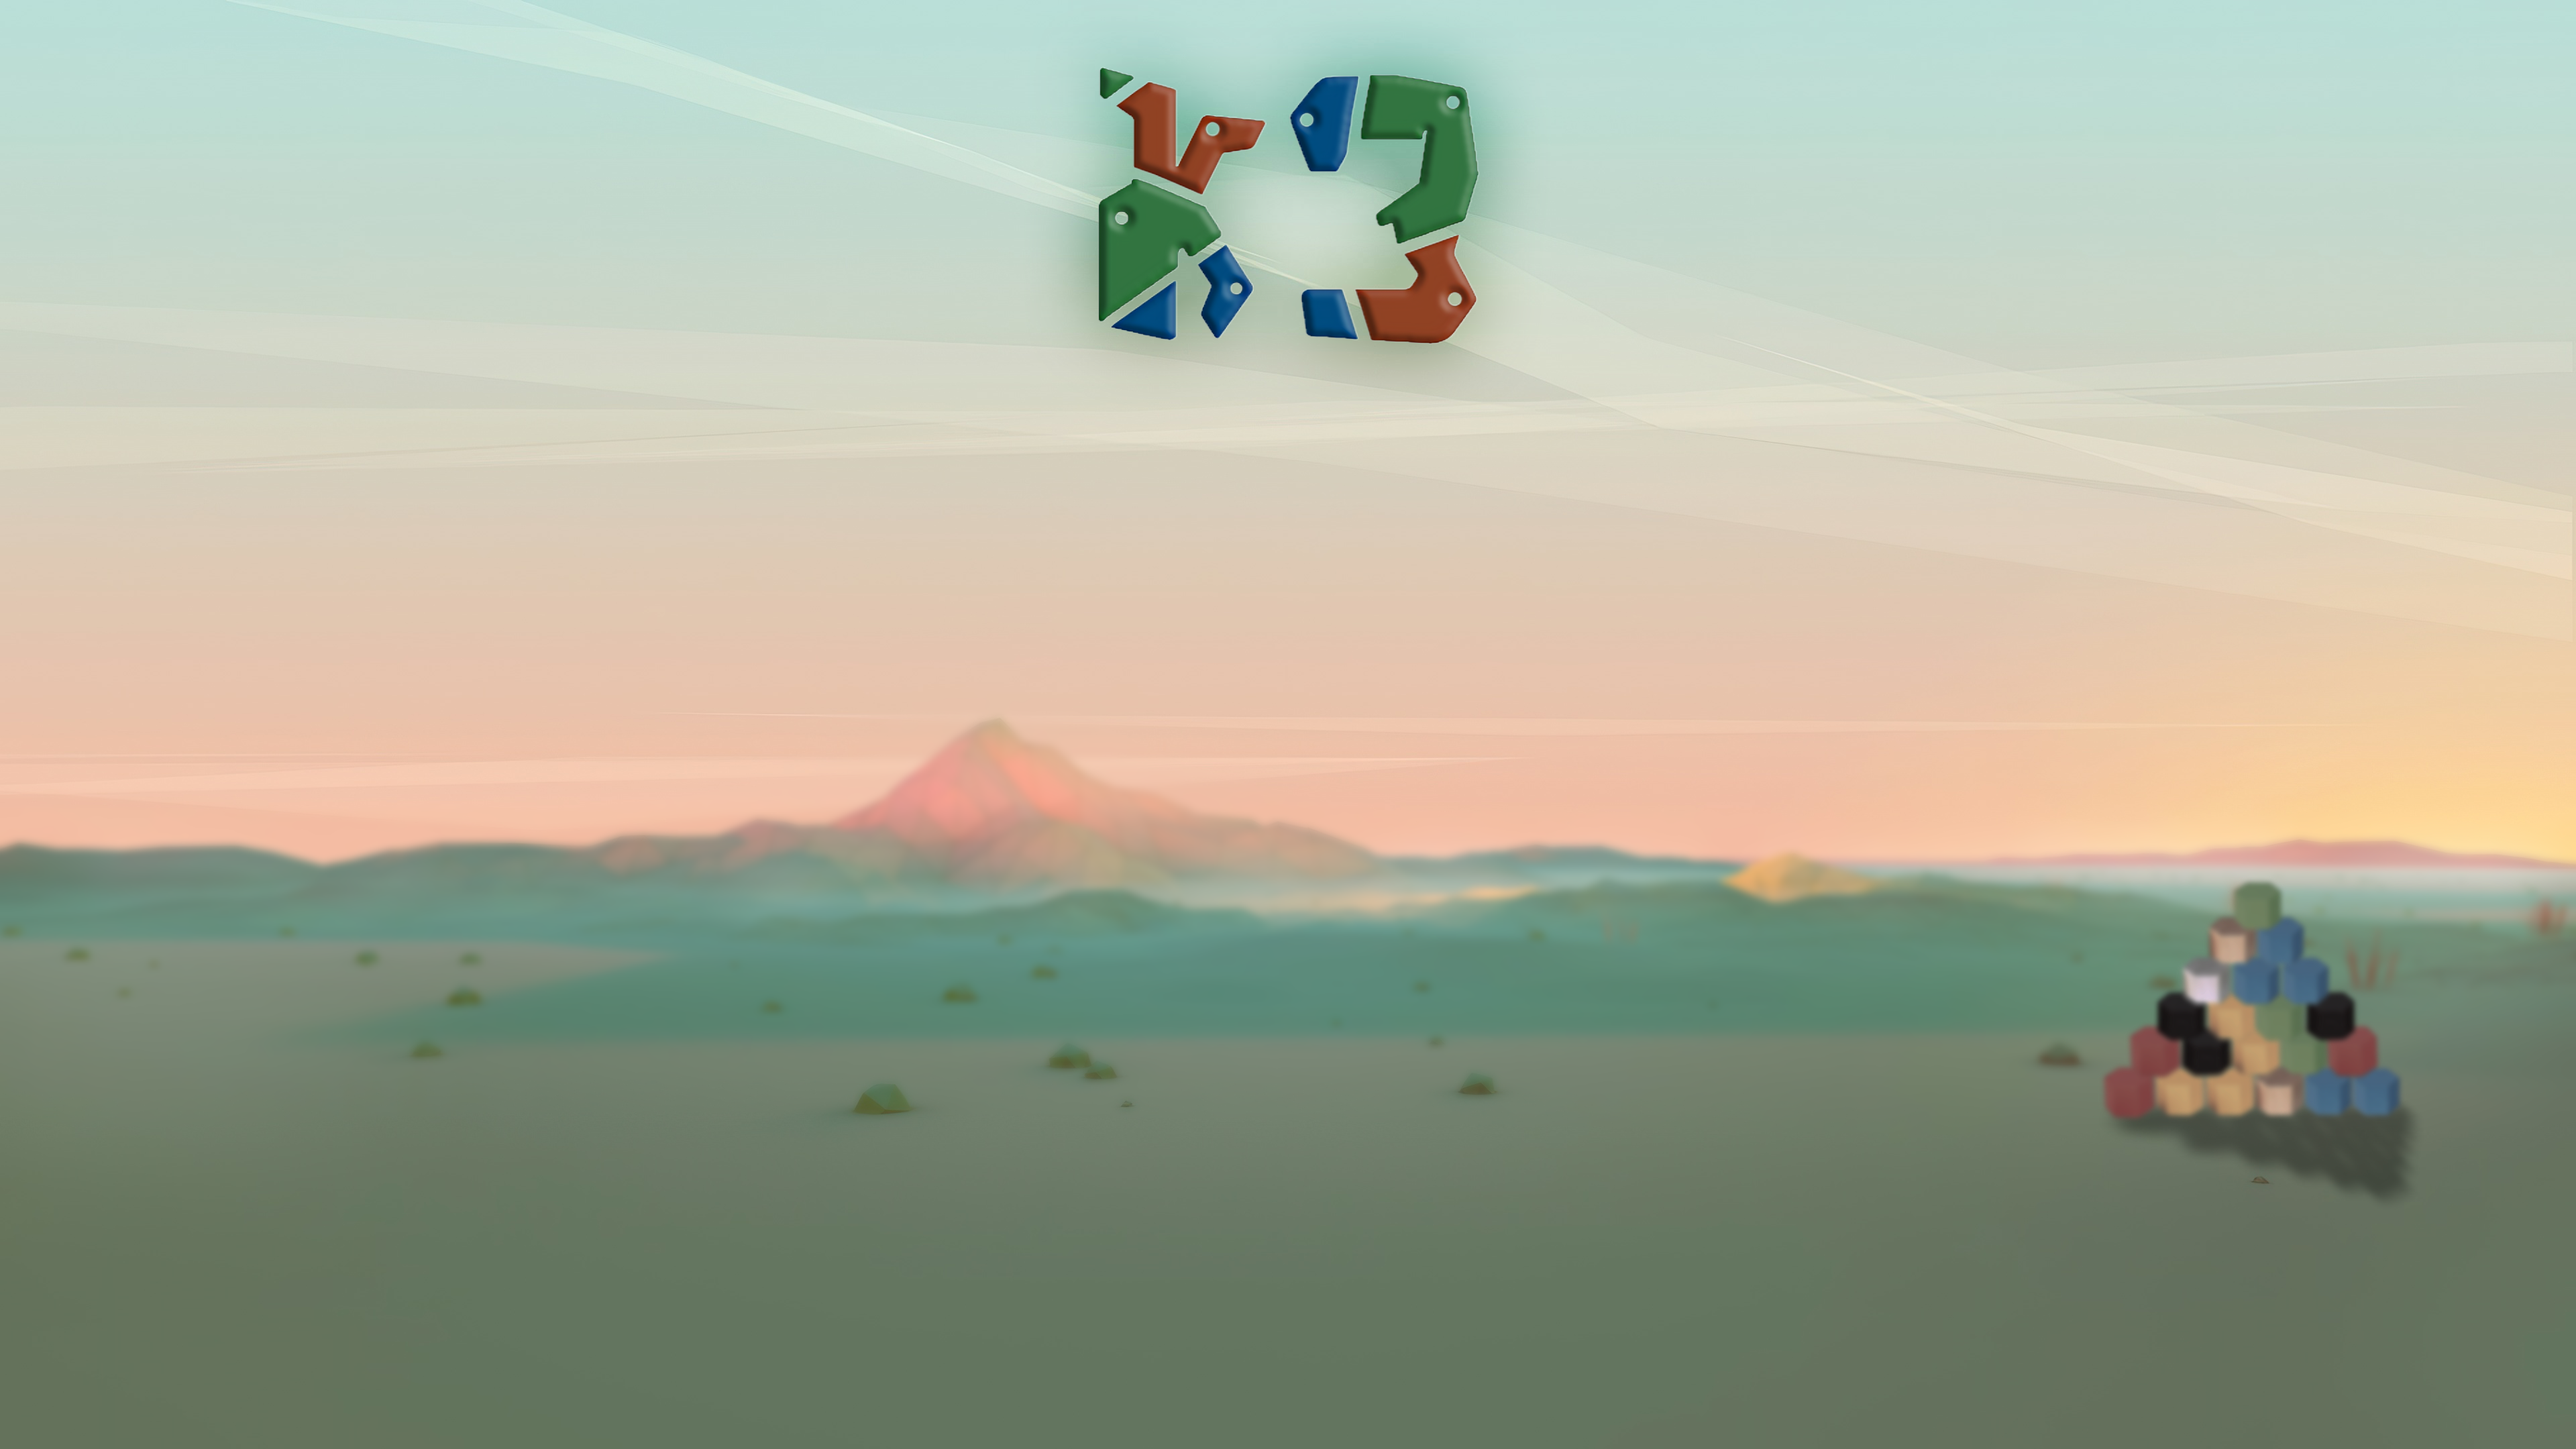
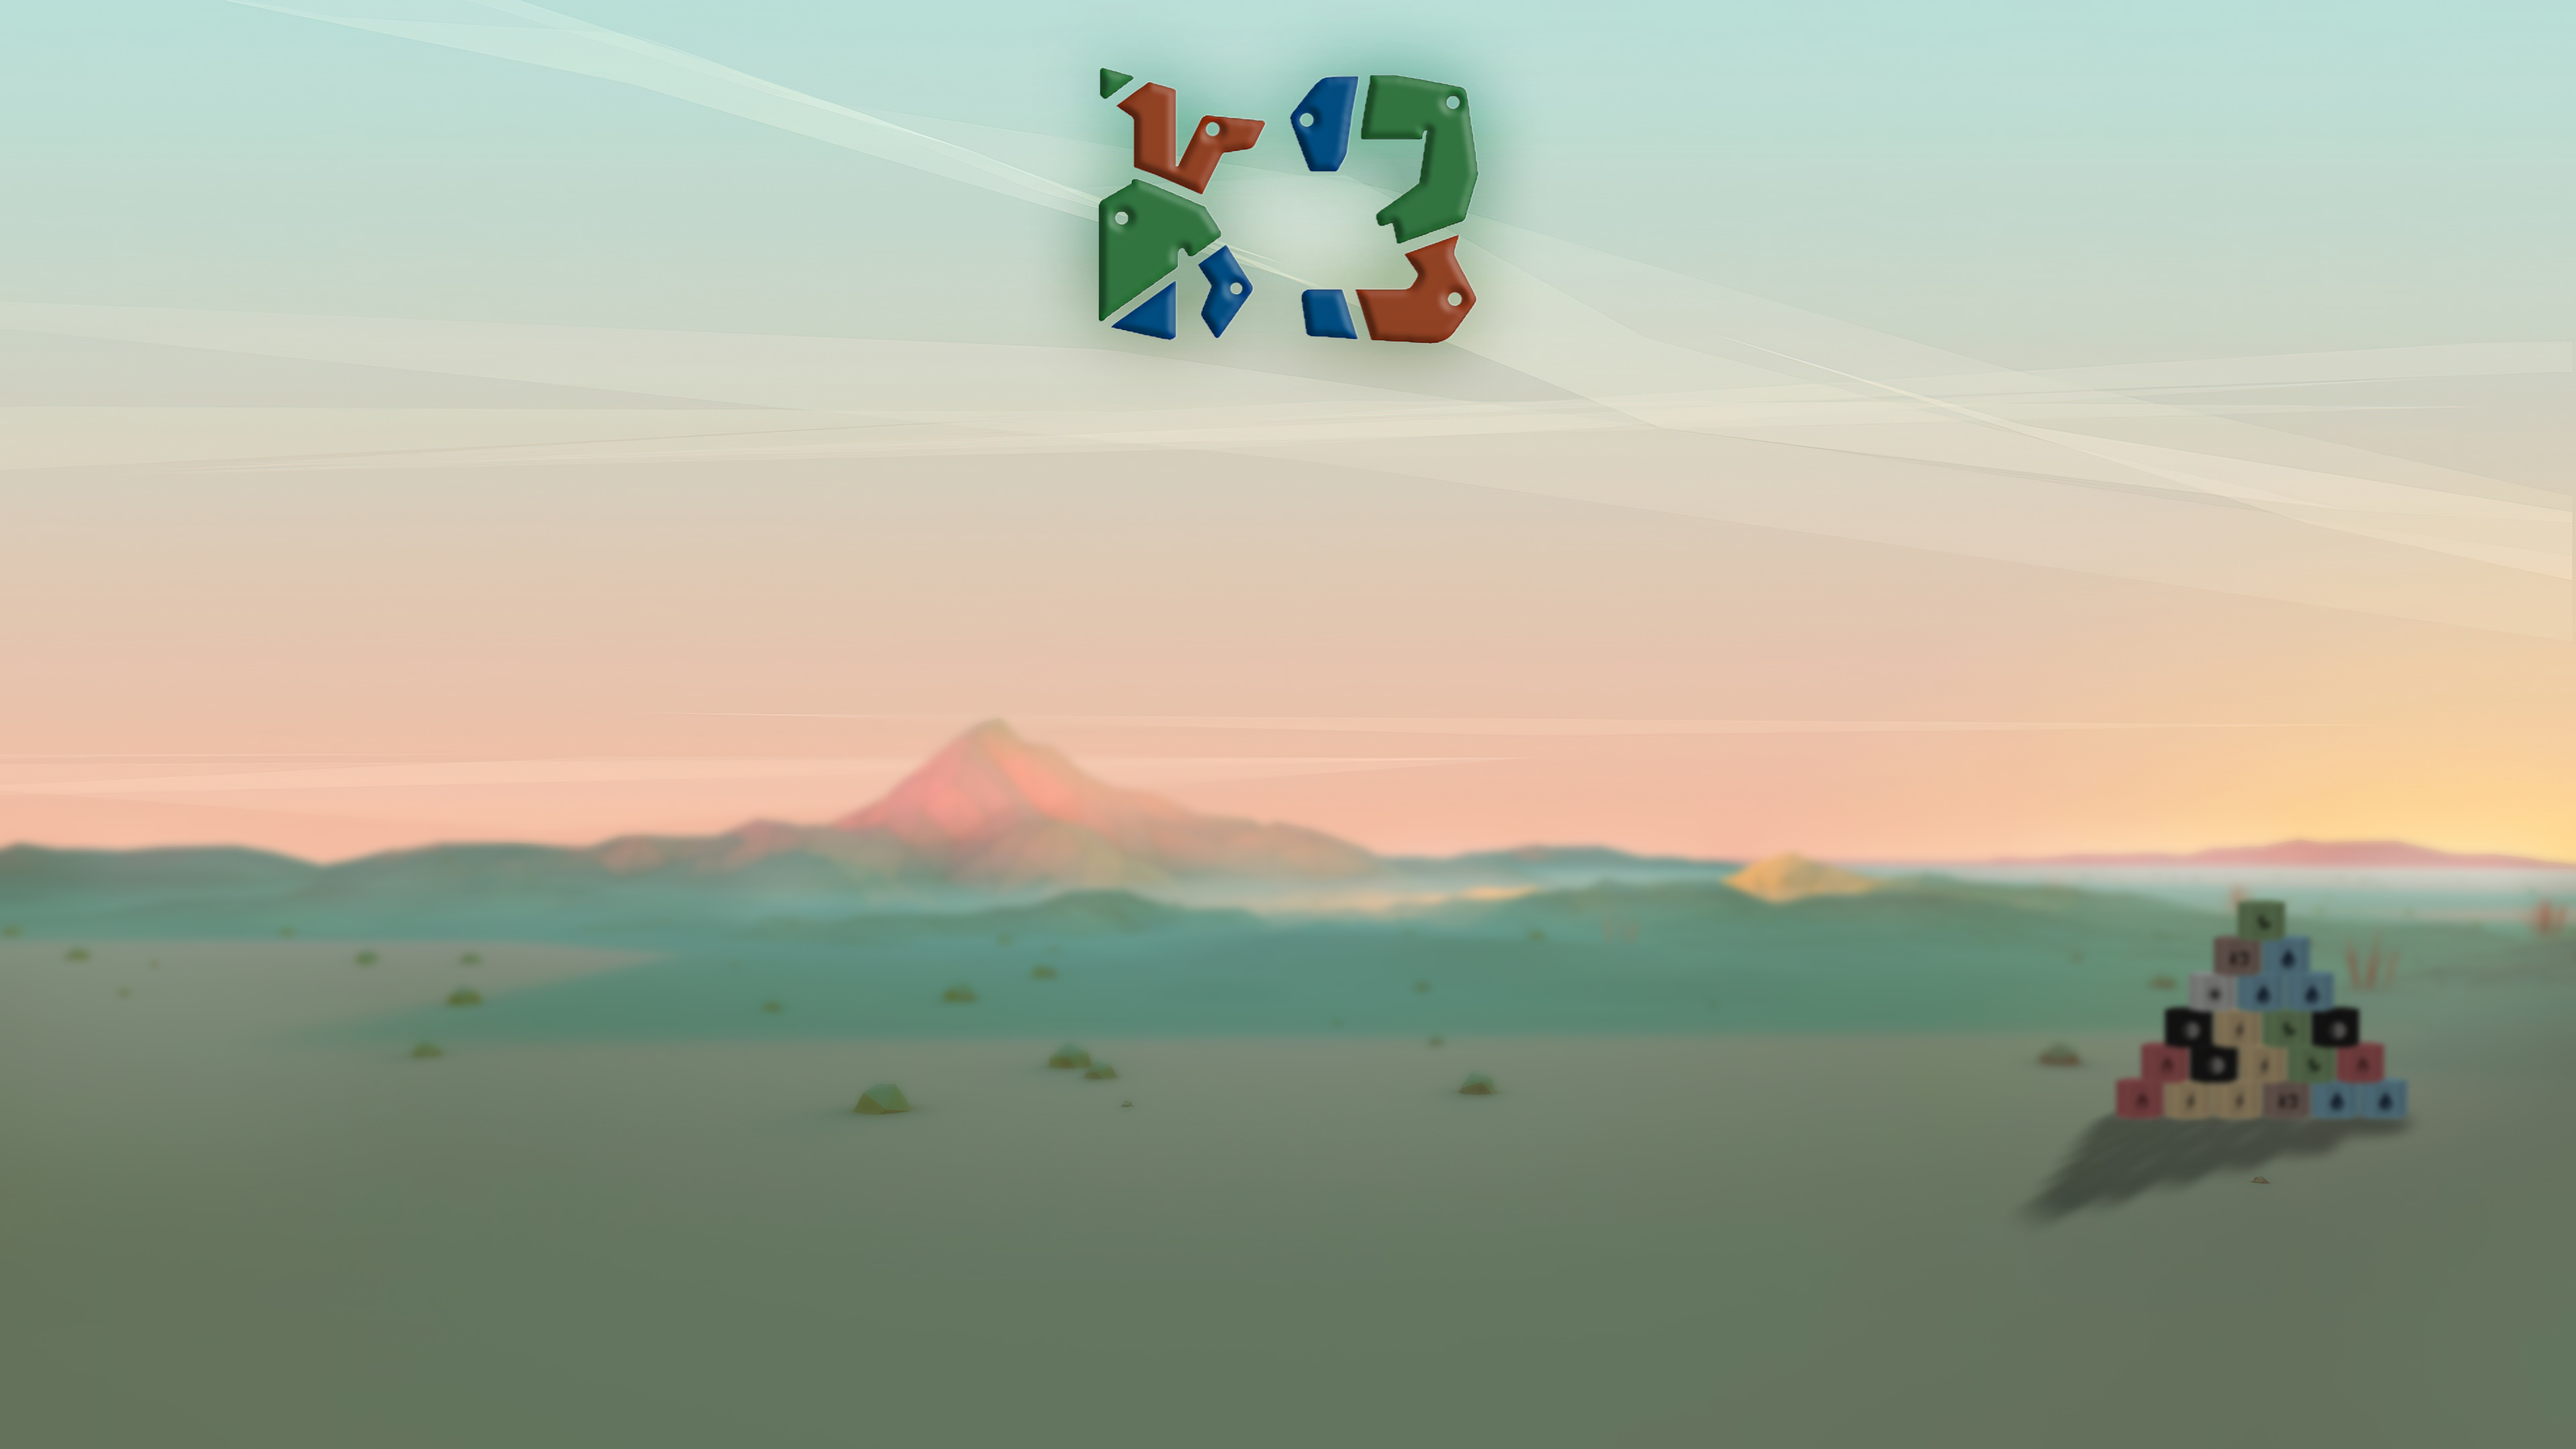
animation + background

Changed region(s): [[0.7812, 0.5894, 0.9375, 0.8375]]

diff --git a/src/Vue/Menu/StartJeu.java b/src/Vue/Menu/StartJeu.java
@@ -3,22 +3,20 @@ package Vue.Menu;
 import java.awt.Color;
 import java.awt.Dimension;
 import java.awt.Graphics;
-import java.awt.Image;
 import java.awt.Toolkit;
 import java.awt.event.ActionEvent;
 import java.awt.event.ActionListener;
+import java.util.Random;
 
-import javax.swing.Icon;
-import javax.swing.ImageIcon;
-import javax.swing.JButton;
 import javax.swing.JFrame;
 import javax.swing.JPanel;
+import javax.swing.Timer;
 
-import Controleur.Jeu;
+import Modeles.Aleatoire;
 import Modeles.SoundPlayer;
 import Vue.TexturePack.LoadTexture;
 
-public class StartJeu extends JPanel{
+public class StartJeu extends JPanel implements ActionListener{
 
 	public JFrame window;
 	public Dimension tailleEcran, tailleFenetre;
@@ -26,13 +24,18 @@ public class StartJeu extends JPanel{
     public int screenHeight, screenWidth, frameHeight, frameWidth;
     public int posX_bouton, posY_nouvellePartie, hauteur_bouton, largeur_bouton;
     public int posY_options, posY_quitter, posY_charger, posY_tuto;
+    public int posX_Ile, posY_Ile, posMaxX_Ile, posMaxY_Ile, posMinX_Ile, posMinY_Ile;
+    public int animX, animY;
     public boolean enfonce_nouvellePartie=false;
     public boolean enfonce_options=false;
     public boolean enfonce_tuto=false;
     public boolean enfonce_quitter=false;
     public boolean enfonce_charger=false;
+    public boolean animation1=false;
     public Chargement chargement;
     private SoundPlayer simpleSoundPlayerSon;
+    Timer animationTimer;
+    Aleatoire rand = new Aleatoire();
 	
 	public StartJeu(JFrame w, Chargement ch, LoadTexture texture) {
 		this.texture = texture;
@@ -50,6 +53,10 @@ public class StartJeu extends JPanel{
 	    window.setExtendedState(JFrame.MAXIMIZED_BOTH);
 		window.setDefaultCloseOperation(JFrame.EXIT_ON_CLOSE);
 		window.setVisible(true);
+		this.animationTimer = new Timer(150, this);
+		this.animationTimer.start();
+		animX=1;
+		animY=1;
 	}
 	
 	public void affichageBackGround(Graphics g) {
@@ -80,6 +87,15 @@ public class StartJeu extends JPanel{
         this.posY_nouvellePartie=frameHeight/4+frameHeight/12;
         
         this.posY_charger=posY_nouvellePartie+hauteur_bouton+espacement;
+        if(!animation1) {
+	    	posX_Ile=posX_bouton-largeur_bouton;
+			posY_Ile=posY_charger;
+			posMaxX_Ile=posX_Ile+50;
+			posMinX_Ile=posX_Ile-50;
+			posMaxY_Ile=posY_Ile+120;
+			posMinY_Ile=posY_Ile-120;
+		}else {
+		}
         
         this.posY_options=posY_charger+hauteur_bouton+espacement;
         
@@ -137,17 +153,47 @@ public class StartJeu extends JPanel{
 		}
 	}
 	
+	public void afficheIle1(Graphics g) {
+		g.drawImage(texture.ile1, posX_Ile, posY_Ile, 696/3, 735/3, null);
+	}
+	
+	public void animerIle1() {
+		animation1=true;
+		if(posX_Ile>=posMaxX_Ile) {
+			posX_Ile+=rand.genInt(-animX, 0);
+		}else if(posX_Ile<=posMaxX_Ile) {
+			posX_Ile+=rand.genInt(0, animY);
+		}else {
+			posX_Ile+=rand.genInt(-animX, animY);
+		}
+		if(posY_Ile>=posMaxY_Ile) {
+			posY_Ile+=rand.genInt(-animX, 0);
+		}else if(posY_Ile<=posMinY_Ile){
+			posY_Ile+=rand.genInt(0, animY);
+		}else {
+			posY_Ile+=rand.genInt(-animX, animY);
+		}
+		repaint();
+	}
+	
 	public void paint(Graphics g) {
+		super.paint(g);
 		if(tailleFenetre != window.getSize()) {
 			//on detecte un changement de fenetre -> on met a jour L IHM
 			changementTaillefenetre();
 		}
 		affichageBackGround(g);
+		afficheIle1(g);
 		afficheBoutonNouvellePartie(g);
 		afficheBoutonCharger(g);
 		afficheBoutonOptions(g);
 		afficheBoutonTuto(g);
 		afficheBoutonQuitter(g);
+	}
+
+	@Override
+	public void actionPerformed(ActionEvent e) {
+		animerIle1();
 	}
 
 }

diff --git a/src/Vue/TexturePack/LoadTexture.java b/src/Vue/TexturePack/LoadTexture.java
@@ -8,7 +8,7 @@ public class LoadTexture{
 	public String CHEMIN;
 	
 	//IMAGE FOND
-	public Image background, backgroundSansLogo;
+	public Image background, backgroundSansLogo, ile1;
 	
 	//IMAGE PIECE
 	public Image pieceVide;
@@ -45,6 +45,7 @@ public class LoadTexture{
 		//IMAGE FOND -------------------------------------------------------------
 		background = Toolkit.getDefaultToolkit().createImage(CHEMIN+"background.png");
 		backgroundSansLogo = Toolkit.getDefaultToolkit().createImage(CHEMIN+"background_sans_logo.png");
+		ile1 = Toolkit.getDefaultToolkit().createImage(CHEMIN+"ile1.png");
 		//IMAGES MENU---------------------------------------------------------------
 		menuBouton1 = Toolkit.getDefaultToolkit().createImage(CHEMIN+"nouvellePartie_flou.png");
 		menuBouton1_presse = Toolkit.getDefaultToolkit().createImage(CHEMIN+"nouvellePartie_presse.png");
